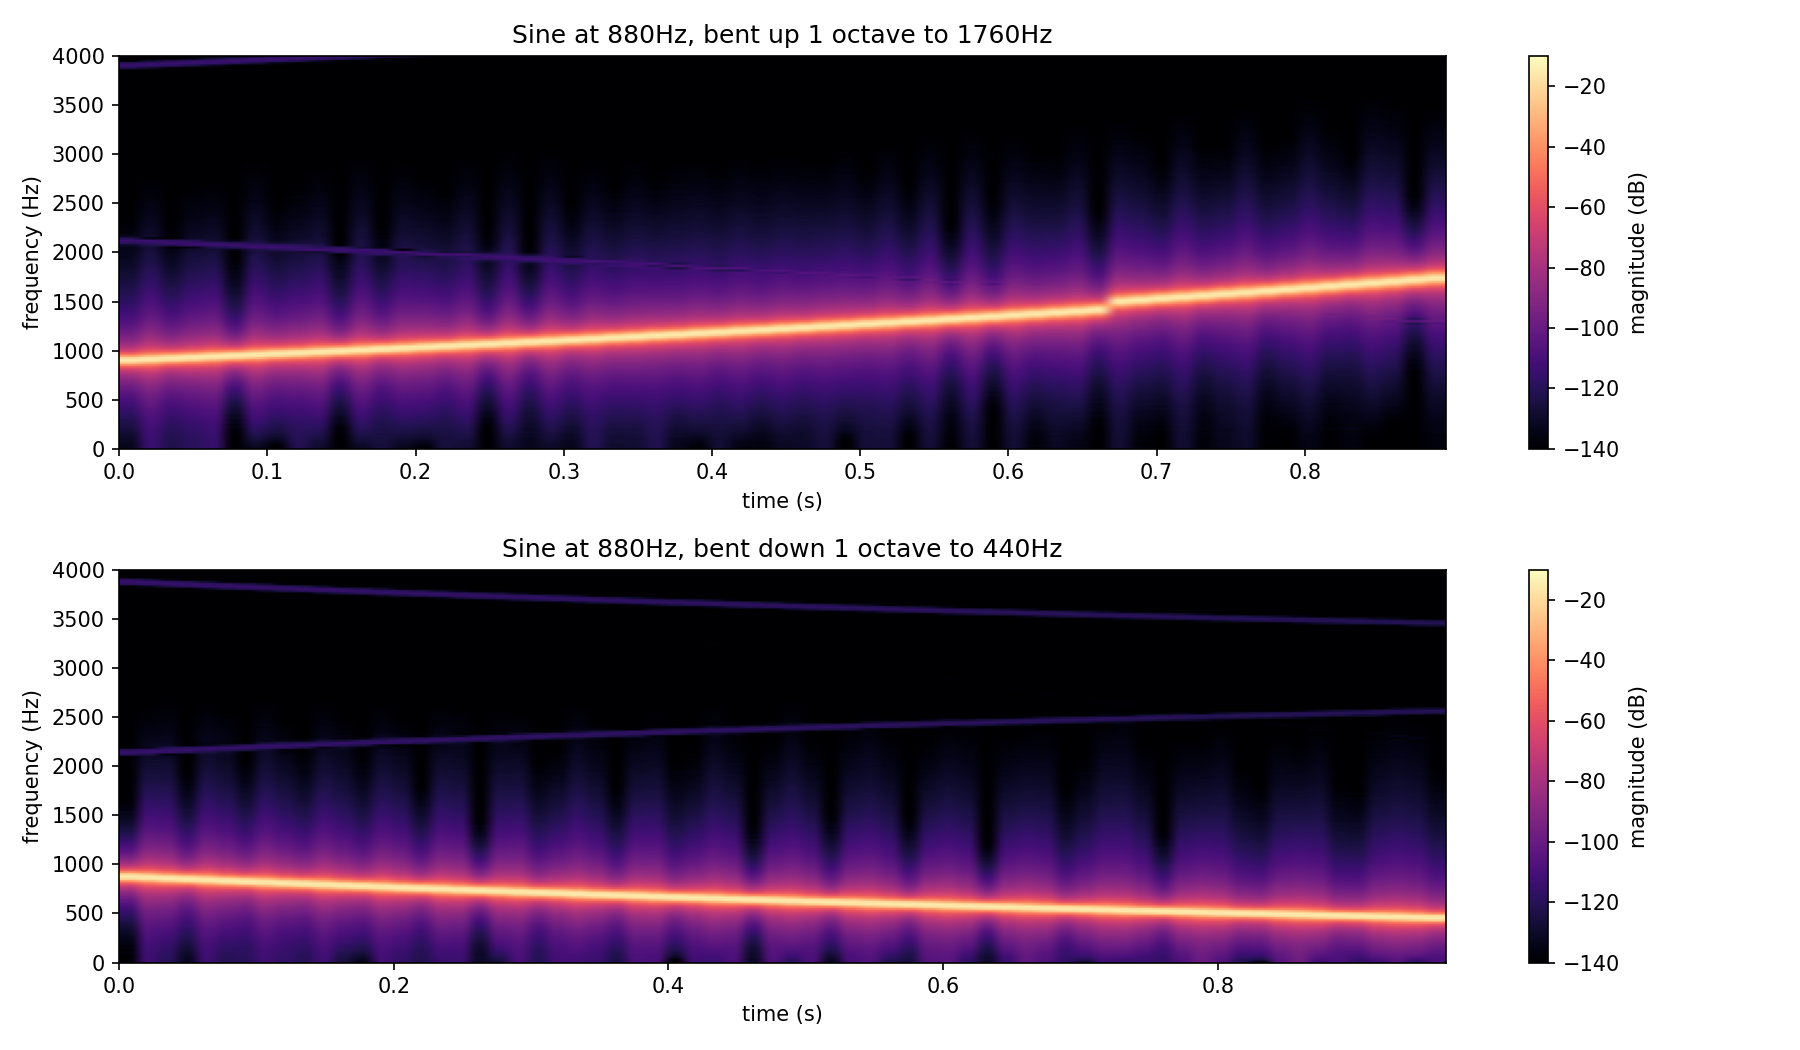
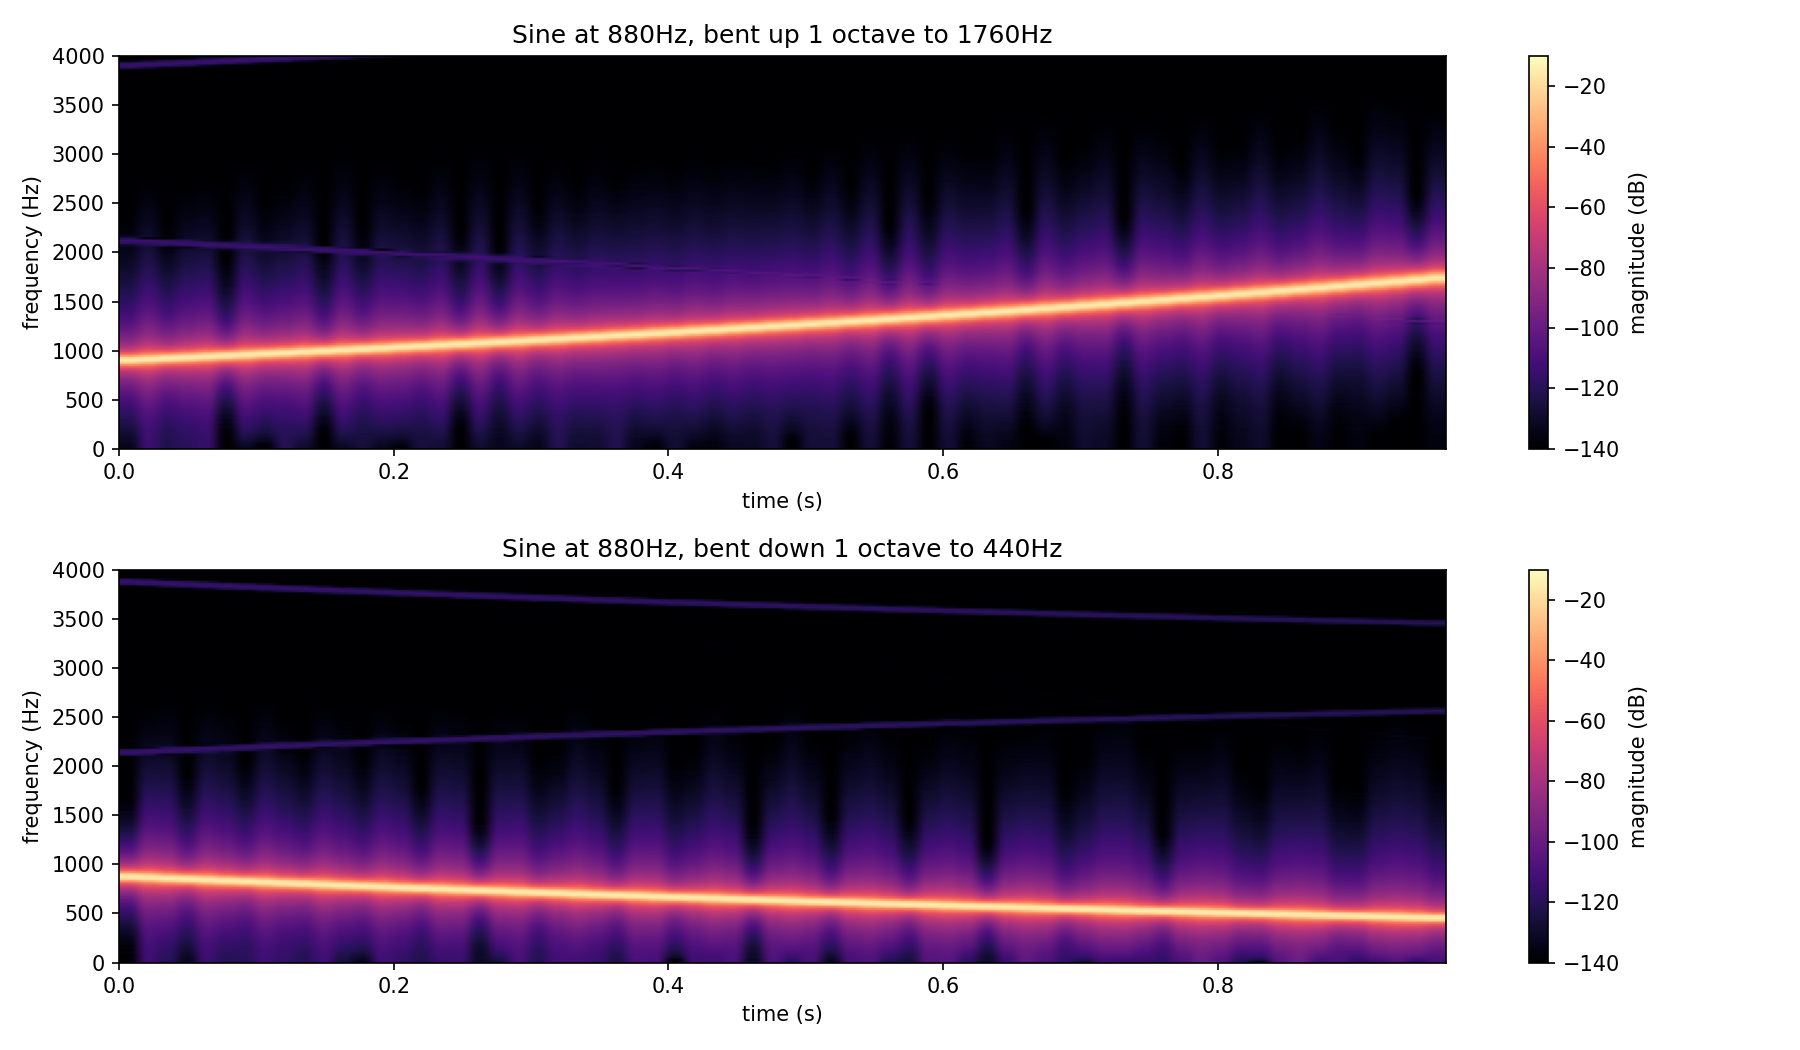
Fix spectrogram frame-drop artifact in Wavetables pitch-bend capture
SimpleSpectrogram's background-worker queue silently drops a frame fed
while full; the original fixed-sleep feed pacing occasionally dropped
one, showing up as a false pitch jump in the bend spectrogram. Poll
queueHasRoom() before every feed instead (the class's own documented
mechanism for this), verified deterministic across repeated runs, and
regenerate the affected plot. Also save the bend audio as WAV
(generated/, not checked in) for a listening test.

diff --git a/documentation/Wavetables/WavetablesExplore.cpp b/documentation/Wavetables/WavetablesExplore.cpp
@@ -13,6 +13,8 @@
 #include <utility>
 #include <vector>
 
+#include "AudioFile/SaveWav.h"
+
 #include "Analysis/FftMisc.h"
 #include "Analysis/Spectrogram.h"
 #include "Wavetables/WaveTableOscillator.h"
@@ -192,9 +194,9 @@ void writePitchBendSpectra(std::ofstream& out)
 constexpr unsigned kSpecFftLength = 2048;
 constexpr float kSpecBendSeconds = 1.f;
 
-// SimpleSpectrogram's FFT runs on a background worker; feeding it in hop-sized chunks with
-// a short sleep between (rather than one bulk call) avoids overrunning its 4-slot queue -
-// the same idiom test/Analysis/Spectrogram_test.cpp uses for offline/batch feeding.
+// SimpleSpectrogram's worker queue silently drops a frame fed while full (fine for its
+// realtime UI use case, not for a batch capture). queueHasRoom() is its documented way for
+// a producer that can't tolerate drops to avoid that - poll it before every feed.
 void writeSpectrogramGrid(std::ofstream& out, const std::vector<float>& audio)
 {
     AbacDsp::SimpleSpectrogram spec;
@@ -206,10 +208,13 @@ void writeSpectrogramGrid(std::ofstream& out, const std::vector<float>& audio)
 
     for (size_t fed = 0; fed < audio.size();)
     {
+        while (!spec.queueHasRoom())
+        {
+            std::this_thread::sleep_for(std::chrono::milliseconds(1));
+        }
         const size_t chunk = std::min(hop, audio.size() - fed);
         spec.processBlock(audio.data() + fed, chunk);
         fed += chunk;
-        std::this_thread::sleep_for(std::chrono::milliseconds(1));
     }
     const auto deadline = std::chrono::steady_clock::now() + std::chrono::seconds(5);
     while (spec.getImageSet().activeSlice < expectedFrames && std::chrono::steady_clock::now() < deadline)
@@ -229,7 +234,8 @@ void writeSpectrogramGrid(std::ofstream& out, const std::vector<float>& audio)
     }
 }
 
-void writePitchBendSpectrogram(std::ofstream& upOut, std::ofstream& downOut)
+void writePitchBendSpectrogram(std::ofstream& upOut, std::ofstream& downOut, const std::string& upWavPath,
+                               const std::string& downWavPath)
 {
     constexpr float freq = 880.f;
 
@@ -237,13 +243,17 @@ void writePitchBendSpectrogram(std::ofstream& upOut, std::ofstream& downOut)
     upOsc.setWaveset(0, AbacDsp::BasicWave::Sine);
     upOsc.setMorph(-1.f);
     upOsc.setFrequency(freq);
-    writeSpectrogramGrid(upOut, renderContinuousBend(upOsc, freq, 1.f, kSpecBendSeconds));
+    const auto upAudio = renderContinuousBend(upOsc, freq, 1.f, kSpecBendSeconds);
+    AudioUtility::SaveWav::saveMonoAs(upWavPath, upAudio, kSampleRate);
+    writeSpectrogramGrid(upOut, upAudio);
 
     AbacDsp::WaveTableOscillator downOsc(kSampleRate);
     downOsc.setWaveset(0, AbacDsp::BasicWave::Sine);
     downOsc.setMorph(-1.f);
     downOsc.setFrequency(freq);
-    writeSpectrogramGrid(downOut, renderContinuousBend(downOsc, freq, -1.f, kSpecBendSeconds));
+    const auto downAudio = renderContinuousBend(downOsc, freq, -1.f, kSpecBendSeconds);
+    AudioUtility::SaveWav::saveMonoAs(downWavPath, downAudio, kSampleRate);
+    writeSpectrogramGrid(downOut, downAudio);
 }
 }
 
@@ -257,6 +267,8 @@ int main(int argc, char* argv[])
     const std::string pitchBendPath = argc > 6 ? argv[6] : "wt_pitch_bend.txt";
     const std::string specUpPath = argc > 7 ? argv[7] : "wt_pitch_bend_spectrogram_up.txt";
     const std::string specDownPath = argc > 8 ? argv[8] : "wt_pitch_bend_spectrogram_down.txt";
+    const std::string upWavPath = argc > 9 ? argv[9] : "wt_pitch_bend_up.wav";
+    const std::string downWavPath = argc > 10 ? argv[10] : "wt_pitch_bend_down.wav";
 
     std::ofstream pitchRangeOut(pitchRangePath);
     std::ofstream mipBoundaryOut(mipBoundaryPath);
@@ -279,9 +291,9 @@ int main(int argc, char* argv[])
     writeMorphSpectra(morphOut);
     writeChangeVsSetFrequency(changeVsSetOut);
     writePitchBendSpectra(pitchBendOut);
-    writePitchBendSpectrogram(specUpOut, specDownOut);
+    writePitchBendSpectrogram(specUpOut, specDownOut, upWavPath, downWavPath);
 
     std::cout << "WavetablesExplore: wrote " << pitchRangePath << ", " << mipBoundaryPath << ", " << pwmPath << ", "
-              << morphPath << ", " << changeVsSetPath << ", " << pitchBendPath << ", " << specUpPath << ", and "
-              << specDownPath << std::endl;
+              << morphPath << ", " << changeVsSetPath << ", " << pitchBendPath << ", " << specUpPath << ", "
+              << specDownPath << ", " << upWavPath << ", and " << downWavPath << std::endl;
 }

diff --git a/documentation/Wavetables/README.md b/documentation/Wavetables/README.md
@@ -86,13 +86,18 @@ spans up to Nyquist, which is exactly what's being checked here.
   out with nothing to visually separate them from) at 880Hz, bent up to
   1760Hz and separately down to 440Hz over 1s (same 16-sample
   `setFrequency()` cadence as `wt_pitch_bend.txt`). Captured with
-  `AbacDsp::SimpleSpectrogram` (`Analysis/Spectrogram.h`) - `setFftLength
-  (2048)`, default 1/3 hop - fed in hop-sized chunks with a short sleep
-  between (the same offline-feeding idiom `test/Analysis/
-  Spectrogram_test.cpp` already uses for this class, since its FFT runs on
-  a background worker thread). Rendered as a heatmap by this folder's own
-  `spectrogram_plot.py`, since `PyConPlot.py` only draws named x/y line
-  series, not a 2D grid.
+  `AbacDsp::SimpleSpectrogram` (`Analysis/Spectrogram.h`, `setFftLength
+  (2048)`, default 1/3 hop): its FFT runs on a background worker behind a
+  4-slot queue that silently drops a frame fed while full, so each hop-
+  sized chunk is only fed once `queueHasRoom()` (the class's own
+  documented mechanism for a producer that can't tolerate drops) confirms
+  there is room - not a fixed sleep, which let exactly one frame drop
+  through in an earlier run of this generator and showed up as a false
+  "jump" in the bend trace before this was caught and fixed. Rendered as a
+  heatmap by this folder's own `spectrogram_plot.py`, since `PyConPlot.py`
+  only draws named x/y line series, not a 2D grid. The same two renders
+  are also saved as `wt_pitch_bend_up.wav` / `_down.wav` in the gitignored
+  `generated/` folder (not checked in) for listening.
 
 ## What the plots show
 
@@ -162,13 +167,15 @@ skips is exactly what keeps a real pitch bend safe.
 **Bend spectrogram**: a single clean ridge tracks the sweep in both
 directions - 880Hz to 1760Hz smoothly rising, 880Hz to 440Hz smoothly
 falling - with no second trace, no discontinuity at any point along
-either bend, and the same broadband noise floor throughout as every other
-plot in this document. The faint diagonal line well above the main ridge
-(roughly -120dB, over 100dB down) is spectral leakage from the moving tone
-through the 2048-point Hann window, not an alias of the bend itself - it
-tracks the analysis window's own resolution limit, not the oscillator.
-This is the clearest single picture in this document of what "no stale
-mip table" actually looks like over time, not just before and after.
+either bend (verified deterministic across repeated regenerations after
+the `queueHasRoom()` fix above), and the same broadband noise floor
+throughout as every other plot in this document. The faint diagonal line
+well above the main ridge (roughly -120dB, over 100dB down) is spectral
+leakage from the moving tone through the 2048-point Hann window, not an
+alias of the bend itself - confirmed both by the number (100dB+ down is
+below normal hearing) and by ear against the `.wav` renders. This is the
+clearest single picture in this document of what "no stale mip table"
+actually looks like over time, not just before and after.
 
 ## Finding: `changeFrequency()` is a real aliasing footgun
 
